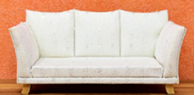
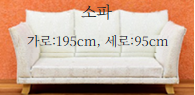
ㄴㅇㅎㄴㅇㅎㄴㅇ

diff --git a/kim.html b/kim.html
@@ -412,28 +412,12 @@
 <div id="숨김정보전체" style="display:none;">
   <div id="집구조전체" style="white-space: nowrap;">
     <div class="d-inline-block 집구조" style="margin-bottom:5px;">
-      <div class="집구조선택또는만들기">큰숫자 힌트</div>
-      <div class="d-inline-block" contentEditable="true">냉장고,문쪽</div><br>
-      <div class="d-inline-block" onclick="가구지우기()" style="background-color: yellow;">지우기</div><div class="d-inline-block" contentEditable="true">910</div><br>
-      <div class="d-inline-block" onclick="가구만들기()" style="background-color: yellow;">만들기</div><div class="d-inline-block" contentEditable="true">870</div><br>
-      <div class="d-inline-block" style="background-color: yellow;">회전</div><div class="d-inline-block" contentEditable="true">1060</div><br>
-      <div class="d-inline-block">top</div><div class="d-inline-block" contentEditable="true">170a</div>
-    </div>
-    <div class="d-inline-block 집구조" style="margin-bottom:5px;">
       <div class="집구조선택또는만들기">선택또는만들기</div>
-      <div class="d-inline-block" contentEditable="true">세탁기,깊이</div><br>
-      <div class="d-inline-block">가로</div><div class="d-inline-block" contentEditable="true">630</div><br>
-      <div class="d-inline-block">세로</div><div class="d-inline-block" contentEditable="true">770</div><br>
-      <div class="d-inline-block">left</div><div class="d-inline-block" contentEditable="true">1325</div><br>
-      <div class="d-inline-block">top</div><div class="d-inline-block" contentEditable="true">420</div>
-    </div>
-    <div class="d-inline-block 집구조" style="margin-bottom:5px;">
-      <div class="집구조선택또는만들기">선택또는만들기</div>
-      <div class="d-inline-block" contentEditable="true">건조기, 문쪽</div><br>
-      <div class="d-inline-block">가로</div><div class="d-inline-block" contentEditable="true">640</div><br>
-      <div class="d-inline-block">세로</div><div class="d-inline-block" contentEditable="true">590</div><br>
-      <div class="d-inline-block">left</div><div class="d-inline-block" contentEditable="true">1324</div><br>
-      <div class="d-inline-block">top</div><div class="d-inline-block" contentEditable="true">500</div>
+      <div class="d-inline-block" contentEditable="true">컴퓨터책상</div><br>
+      <div class="d-inline-block">가로</div><div class="d-inline-block" contentEditable="true">1450</div><br>
+      <div class="d-inline-block">세로</div><div class="d-inline-block" contentEditable="true">570</div><br>
+      <div class="d-inline-block">left</div><div class="d-inline-block" contentEditable="true">210</div><br>
+      <div class="d-inline-block">top</div><div class="d-inline-block" contentEditable="true">40</div>
     </div>
     <div class="d-inline-block 집구조" style="margin-bottom:5px;">
       <div class="집구조선택또는만들기">선택또는만들기</div>
@@ -445,59 +429,19 @@
     </div>
     <div class="d-inline-block 집구조" style="margin-bottom:5px;">
       <div class="집구조선택또는만들기">선택또는만들기</div>
-      <div class="d-inline-block" contentEditable="true">소파</div><br>
-      <div class="d-inline-block">가로</div><div class="d-inline-block" contentEditable="true">1950</div><br>
-      <div class="d-inline-block">세로</div><div class="d-inline-block" contentEditable="true">950</div><br>
-      <div class="d-inline-block">left</div><div class="d-inline-block" contentEditable="true">700</div><br>
-      <div class="d-inline-block">top</div><div class="d-inline-block" contentEditable="true">410</div>
-    </div>
-    <div class="d-inline-block 집구조" style="margin-bottom:5px;">
-      <div class="집구조선택또는만들기">선택또는만들기</div>
-      <div class="d-inline-block" contentEditable="true">컴퓨터책상</div><br>
-      <div class="d-inline-block">가로</div><div class="d-inline-block" contentEditable="true">1450</div><br>
-      <div class="d-inline-block">세로</div><div class="d-inline-block" contentEditable="true">570</div><br>
-      <div class="d-inline-block">left</div><div class="d-inline-block" contentEditable="true">210</div><br>
-      <div class="d-inline-block">top</div><div class="d-inline-block" contentEditable="true">40</div>
-    </div>
-    <div class="d-inline-block 집구조" style="margin-bottom:5px;">
-      <div class="집구조선택또는만들기">선택또는만들기</div>
-      <div class="d-inline-block" contentEditable="true">식탁(있던거)</div><br>
-      <div class="d-inline-block">가로</div><div class="d-inline-block" contentEditable="true">650</div><br>
-      <div class="d-inline-block">세로</div><div class="d-inline-block" contentEditable="true">850</div><br>
-      <div class="d-inline-block">left</div><div class="d-inline-block" contentEditable="true">897</div><br>
-      <div class="d-inline-block">top</div><div class="d-inline-block" contentEditable="true">385a</div>
-    </div>
-    <div class="d-inline-block 집구조" style="margin-bottom:5px;">
-      <div class="집구조선택또는만들기">선택또는만들기</div>
-      <div class="d-inline-block" contentEditable="true">화장대</div><br>
-      <div class="d-inline-block">가로</div><div class="d-inline-block" contentEditable="true">875</div><br>
-      <div class="d-inline-block">세로</div><div class="d-inline-block" contentEditable="true">520</div><br>
-      <div class="d-inline-block">left</div><div class="d-inline-block" contentEditable="true">200</div><br>
-      <div class="d-inline-block">top</div><div class="d-inline-block" contentEditable="true">340A</div>
-    </div>
-    <div class="d-inline-block 집구조" style="margin-bottom:5px;">
-      <div class="집구조선택또는만들기">선택또는만들기</div>
-      <div class="d-inline-block" contentEditable="true">전자레인지다이</div><br>
-      <div class="d-inline-block">가로</div><div class="d-inline-block" contentEditable="true">400</div><br>
-      <div class="d-inline-block">세로</div><div class="d-inline-block" contentEditable="true">600</div><br>
-      <div class="d-inline-block">left</div><div class="d-inline-block" contentEditable="true">512</div><br>
-      <div class="d-inline-block">top</div><div class="d-inline-block" contentEditable="true">245A</div>
-    </div>
-    <div class="d-inline-block 집구조" style="margin-bottom:5px;">
-      <div class="집구조선택또는만들기">선택또는만들기</div>
       <div class="d-inline-block" contentEditable="true">식탁(구매)</div><br>
       <div class="d-inline-block">가로</div><div class="d-inline-block" contentEditable="true">1350</div><br>
       <div class="d-inline-block">세로</div><div class="d-inline-block" contentEditable="true">800</div><br>
       <div class="d-inline-block">left</div><div class="d-inline-block" contentEditable="true">910</div><br>
-      <div class="d-inline-block">top</div><div class="d-inline-block" contentEditable="true">170</div>
+      <div class="d-inline-block">top</div><div class="d-inline-block" contentEditable="true">175</div>
     </div>
     <div class="d-inline-block 집구조" style="margin-bottom:5px;">
-      <div class="집구조선택또는만들기">선택또는만들기</div>
-      <div class="d-inline-block" contentEditable="true">바디프랜드</div><br>
-      <div class="d-inline-block">가로</div><div class="d-inline-block" contentEditable="true">910</div><br>
-      <div class="d-inline-block">세로</div><div class="d-inline-block" contentEditable="true">2000</div><br>
-      <div class="d-inline-block">left</div><div class="d-inline-block" contentEditable="true">990</div><br>
-      <div class="d-inline-block">top</div><div class="d-inline-block" contentEditable="true">450a</div>
+      <div class="집구조선택또는만들기">큰숫자 힌트</div>
+      <div class="d-inline-block" contentEditable="true">냉장고</div><br>
+      <div class="d-inline-block" onclick="가구지우기()" style="background-color: yellow;">지우기</div><div class="d-inline-block" contentEditable="true">910</div><br>
+      <div class="d-inline-block" onclick="가구만들기()" style="background-color: yellow;">만들기</div><div class="d-inline-block" contentEditable="true">870</div><br>
+      <div class="d-inline-block" style="background-color: yellow;">회전</div><div class="d-inline-block" contentEditable="true">1055</div><br>
+      <div class="d-inline-block">top</div><div class="d-inline-block" contentEditable="true">175</div>
     </div>
     <div class="d-inline-block 집구조" style="margin-bottom:5px;">
       <div class="집구조선택또는만들기">선택또는만들기</div>
@@ -509,13 +453,72 @@
     </div>
     <div class="d-inline-block 집구조" style="margin-bottom:5px;">
       <div class="집구조선택또는만들기">선택또는만들기</div>
-      <div class="d-inline-block" contentEditable="true">냉장고위치2</div><br>
-      <div class="d-inline-block">가로</div><div class="d-inline-block" contentEditable="true">910</div><br>
-      <div class="d-inline-block">세로</div><div class="d-inline-block" contentEditable="true">870</div><br>
-      <div class="d-inline-block">left</div><div class="d-inline-block" contentEditable="true">1160</div><br>
-      <div class="d-inline-block">top</div><div class="d-inline-block" contentEditable="true">308</div>
+      <div class="d-inline-block" contentEditable="true">소파</div><br>
+      <div class="d-inline-block">가로</div><div class="d-inline-block" contentEditable="true">1950</div><br>
+      <div class="d-inline-block">세로</div><div class="d-inline-block" contentEditable="true">950</div><br>
+      <div class="d-inline-block">left</div><div class="d-inline-block" contentEditable="true">700</div><br>
+      <div class="d-inline-block">top</div><div class="d-inline-block" contentEditable="true">410</div>
+    </div>
+    <div class="d-inline-block 집구조" style="margin-bottom:5px;">
+      <div class="집구조선택또는만들기">선택또는만들기</div>
+      <div class="d-inline-block" contentEditable="true">세탁기</div><br>
+      <div class="d-inline-block">가로</div><div class="d-inline-block" contentEditable="true">630</div><br>
+      <div class="d-inline-block">세로</div><div class="d-inline-block" contentEditable="true">770</div><br>
+      <div class="d-inline-block">left</div><div class="d-inline-block" contentEditable="true">1325</div><br>
+      <div class="d-inline-block">top</div><div class="d-inline-block" contentEditable="true">420</div>
+    </div>
+    <div class="d-inline-block 집구조" style="margin-bottom:5px;">
+      <div class="집구조선택또는만들기">선택또는만들기</div>
+      <div class="d-inline-block" contentEditable="true">건조기</div><br>
+      <div class="d-inline-block">가로</div><div class="d-inline-block" contentEditable="true">640</div><br>
+      <div class="d-inline-block">세로</div><div class="d-inline-block" contentEditable="true">590</div><br>
+      <div class="d-inline-block">left</div><div class="d-inline-block" contentEditable="true">1324</div><br>
+      <div class="d-inline-block">top</div><div class="d-inline-block" contentEditable="true">500</div>
     </div>
 
+
+
+
+    <div class="d-inline-block 집구조" style="margin-bottom:5px;">
+      <div class="집구조선택또는만들기">선택또는만들기</div>
+      <div class="d-inline-block" contentEditable="true">바디프랜드</div><br>
+      <div class="d-inline-block">가로</div><div class="d-inline-block" contentEditable="true">910</div><br>
+      <div class="d-inline-block">세로</div><div class="d-inline-block" contentEditable="true">2000</div><br>
+      <div class="d-inline-block">left</div><div class="d-inline-block" contentEditable="true">0</div><br>
+      <div class="d-inline-block">top</div><div class="d-inline-block" contentEditable="true">0</div>
+    </div>
+    <div class="d-inline-block 집구조" style="margin-bottom:5px;">
+      <div class="집구조선택또는만들기">선택또는만들기</div>
+      <div class="d-inline-block" contentEditable="true">식탁(있던거)</div><br>
+      <div class="d-inline-block">가로</div><div class="d-inline-block" contentEditable="true">650</div><br>
+      <div class="d-inline-block">세로</div><div class="d-inline-block" contentEditable="true">850</div><br>
+      <div class="d-inline-block">left</div><div class="d-inline-block" contentEditable="true">0</div><br>
+      <div class="d-inline-block">top</div><div class="d-inline-block" contentEditable="true">0</div>
+    </div>
+    <div class="d-inline-block 집구조" style="margin-bottom:5px;">
+      <div class="집구조선택또는만들기">선택또는만들기</div>
+      <div class="d-inline-block" contentEditable="true">화장대</div><br>
+      <div class="d-inline-block">가로</div><div class="d-inline-block" contentEditable="true">875</div><br>
+      <div class="d-inline-block">세로</div><div class="d-inline-block" contentEditable="true">520</div><br>
+      <div class="d-inline-block">left</div><div class="d-inline-block" contentEditable="true">0</div><br>
+      <div class="d-inline-block">top</div><div class="d-inline-block" contentEditable="true">0</div>
+    </div>
+    <div class="d-inline-block 집구조" style="margin-bottom:5px;">
+      <div class="집구조선택또는만들기">선택또는만들기</div>
+      <div class="d-inline-block" contentEditable="true">전자레인지다이</div><br>
+      <div class="d-inline-block">가로</div><div class="d-inline-block" contentEditable="true">400</div><br>
+      <div class="d-inline-block">세로</div><div class="d-inline-block" contentEditable="true">600</div><br>
+      <div class="d-inline-block">left</div><div class="d-inline-block" contentEditable="true">0</div><br>
+      <div class="d-inline-block">top</div><div class="d-inline-block" contentEditable="true">0</div>
+    </div>
+    <div class="d-inline-block 집구조" style="margin-bottom:5px;">
+      <div class="집구조선택또는만들기">선택또는만들기</div>
+      <div class="d-inline-block" contentEditable="true"></div><br>
+      <div class="d-inline-block">가로</div><div class="d-inline-block" contentEditable="true"></div><br>
+      <div class="d-inline-block">세로</div><div class="d-inline-block" contentEditable="true"></div><br>
+      <div class="d-inline-block">left</div><div class="d-inline-block" contentEditable="true"></div><br>
+      <div class="d-inline-block">top</div><div class="d-inline-block" contentEditable="true"></div>
+    </div>
     <div style="position:relative"></div><!-- position:relative 용도 -->
 
     <canvas id="집구조캔버스" style="position:absolute; width:1800px;height:800px;border:1px solid black;

diff --git a/portal/assets/js/kim.js b/portal/assets/js/kim.js
@@ -24,17 +24,46 @@ function 공통켤때위치있는거메모div내_가구배치() {
       추가할네모.id=집구조클래스들[i].id + '네모div';
       추가할네모.style.position='absolute';
       추가할네모.style.border='1px solid black';
-      if (이름=='소파') {
-        추가할네모.style.backgroundImage='url(portal/images/문서연결_kim/소파.png)'
-      }
-      if (이름=='바디프랜드') {
-        추가할네모.style.backgroundImage='url(portal/images/문서연결_kim/바디프랜드.png)'
-      }
       추가할네모.style.backgroundColor='yellow';
       추가할네모.style.width= (가로*숫자보정값) + 'px';
       추가할네모.style.height= (세로*숫자보정값) + 'px';
       추가할네모.style.left= (레프트*숫자보정값)*10 + 'px';
       추가할네모.style.top= (탑*숫자보정값)*10 + 'px';
+      if (이름=='침대') {
+        추가할네모.innerHTML='';
+        추가할네모.style.backgroundImage='url(portal/images/문서연결_kim/침대.png)'
+      }
+      if (이름=='건조기') {
+        추가할네모.innerHTML='';
+        추가할네모.style.backgroundImage='url(portal/images/문서연결_kim/건조기.png)'
+      }
+      if (이름=='세탁기') {
+        추가할네모.innerHTML='';
+        추가할네모.style.backgroundImage='url(portal/images/문서연결_kim/세탁기.png)'
+      }
+      if (이름=='냉장고') {
+        추가할네모.innerHTML='';
+        추가할네모.style.backgroundImage='url(portal/images/문서연결_kim/냉장고.png)'
+      }
+      if (이름=='소파') {
+        추가할네모.innerHTML='';
+        추가할네모.style.backgroundImage='url(portal/images/문서연결_kim/소파.png)'
+      }
+      if (이름=='바디프랜드') {
+        추가할네모.style.backgroundImage='url(portal/images/문서연결_kim/바디프랜드.png)'
+      }
+      if (이름=='컴퓨터책상') {
+        추가할네모.innerHTML='';
+        추가할네모.style.backgroundImage='url(portal/images/문서연결_kim/컴퓨터책상.png)'
+      }
+      if (이름=='TV다이') {
+        추가할네모.innerHTML='';
+        추가할네모.style.backgroundImage='url(portal/images/문서연결_kim/TV다이.png)'
+      }
+      if (이름=='식탁(구매)') {
+        추가할네모.innerHTML='';
+        추가할네모.style.backgroundImage='url(portal/images/문서연결_kim/식탁구매.png)'
+      }
       document.querySelector('#메모 #집구조그림테두리').appendChild(추가할네모);
       //console.log(document.querySelector('#메모 #집구조그림테두리').innerHTML)
 
@@ -208,21 +237,9 @@ function 메모div내_집구조전체(e) {
       }
 
     } else {
-      if (document.querySelector('#메모 #집구조그림테두리 #' + e.target.parentNode.id + '네모div')) {
-        선택된네모div=document.querySelector('#메모 #집구조그림테두리 #' + e.target.parentNode.id + '네모div');
-        console.log(e.target.parentNode.id + ' : 이미 있다. 만들지 않고, style만 변경')
-        선택된네모div.textContent=이름;
-        선택된네모div.style.textAlign='center';
-        선택된네모div.style.position='absolute';
-        선택된네모div.style.border='1px solid black';
-        선택된네모div.style.backgroundColor='yellow';
-        선택된네모div.style.width= (가로*숫자보정값) + 'px';
-        선택된네모div.style.height= (세로*숫자보정값) + 'px';
-        선택된네모div.style.left= (레프트*숫자보정값)*10 + 'px';
-        선택된네모div.style.top= (탑*숫자보정값)*10 + 'px';
-      } else {
-
-        console.log(e.target.parentNode.id + ' : 없으니. 만들고, style도 변경')
+      document.querySelector('#메모 #집구조그림테두리 #' + e.target.parentNode.id + '네모div').remove();
+      //있던지 없던지 지우고 만든다.
+        console.log(e.target.parentNode.id + ' : 있던지 없던지 지우고 만든다.')
         var 추가할네모=document.createElement('div');
         추가할네모.textContent=이름;
         추가할네모.style.textAlign='center';
@@ -234,13 +251,51 @@ function 메모div내_집구조전체(e) {
         추가할네모.style.height= (세로*숫자보정값) + 'px';
         추가할네모.style.left= (레프트*숫자보정값)*10 + 'px';
         추가할네모.style.top= (탑*숫자보정값)*10 + 'px';
+
+        if (1==2) {//쓰기 귀찮아서 임시로
+          추가할네모.innerHTML='가로:195cm, 세로:95cm';
+          추가할네모.style.fontSize='13px';
+          추가할네모.style.paddingTop='30px';
+        }
+        if (이름=='침대') {
+          추가할네모.innerHTML='';
+          추가할네모.style.backgroundImage='url(portal/images/문서연결_kim/침대.png)'
+        }
+        if (이름=='건조기') {
+          추가할네모.innerHTML='';
+          추가할네모.style.backgroundImage='url(portal/images/문서연결_kim/건조기.png)'
+        }
+        if (이름=='세탁기') {
+          추가할네모.innerHTML='';
+          추가할네모.style.backgroundImage='url(portal/images/문서연결_kim/세탁기.png)'
+        }
+        if (이름=='냉장고') {
+          추가할네모.innerHTML='';
+          추가할네모.style.backgroundImage='url(portal/images/문서연결_kim/냉장고.png)'
+        }
+        if (이름=='소파') {
+          추가할네모.innerHTML='';
+          추가할네모.style.backgroundImage='url(portal/images/문서연결_kim/소파.png)'
+        }
+        if (이름=='컴퓨터책상') {
+          추가할네모.innerHTML='';
+          추가할네모.style.backgroundImage='url(portal/images/문서연결_kim/컴퓨터책상.png)'
+        }
+        if (이름=='TV다이') {
+          추가할네모.innerHTML='';
+          추가할네모.style.backgroundImage='url(portal/images/문서연결_kim/TV다이.png)'
+        }
+        if (이름=='식탁(구매)') {
+          추가할네모.innerHTML='';
+          추가할네모.style.backgroundImage='url(portal/images/문서연결_kim/식탁구매.png)'
+        }
         document.querySelector('#메모 #집구조그림테두리').appendChild(추가할네모);
         //console.log(document.querySelector('#메모 #집구조그림테두리').innerHTML)
       }
     }
   }
 
-}
+
 
 
 
@@ -673,9 +728,8 @@ function 임시_집구조켤때캔버스그리기() {
   //방크기 메모
   그리기.fillStyle='black';
   그리기.textAlign='left';
-  그리기.fillText('[컴퓨터방] 가로:365cm, 세로:280cm',800,10);
-  그리기.fillText('  [큰방] 가로:365cm, 세로:367cm',817,40);
-  그리기.fillText(' [옷방] 가로:303cm, 세로:277cm',817,70);
+  그리기.fillText('컴퓨터가로 56.5cm, 높이 48cm, 좌우여백 최대 44cm, 좌우네모는 가로 42cm,  세로 22cm',800,10);
+  그리기.fillText('세탁기는 정면이 좁다, 건조기는 정면이 넓다',800,30);
 
   그리기.fillStyle = 'rgba(128,128,128,1)';//회색
   그리기.fillRect(1009,670,220,20);
